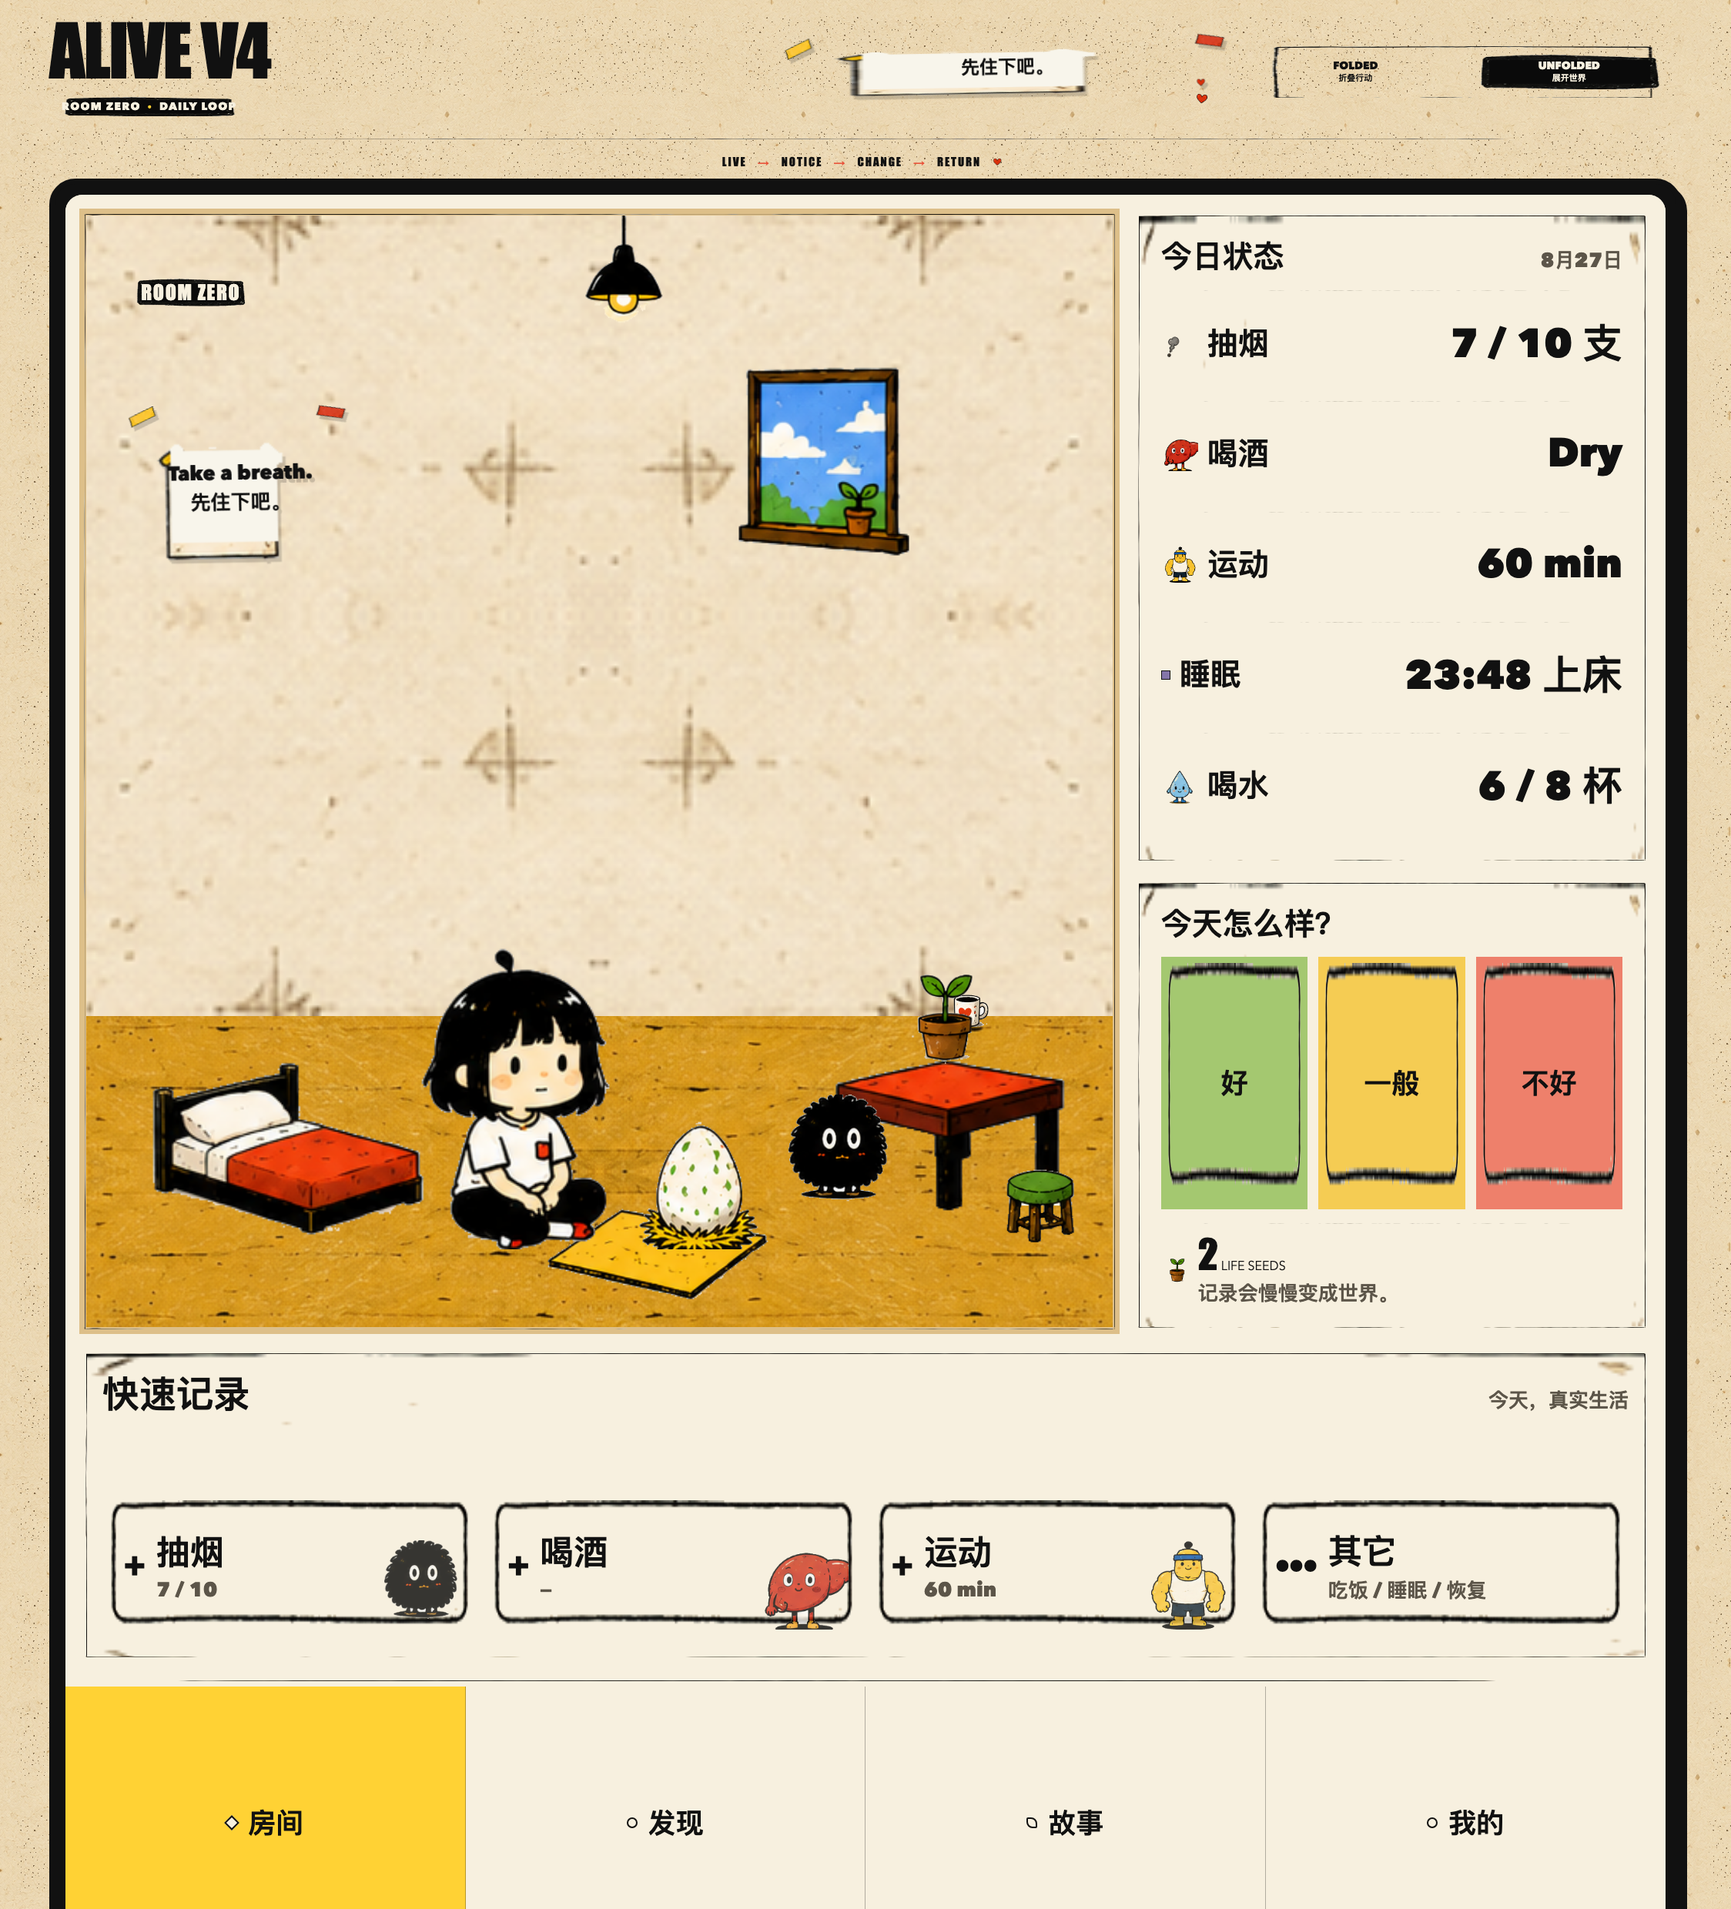
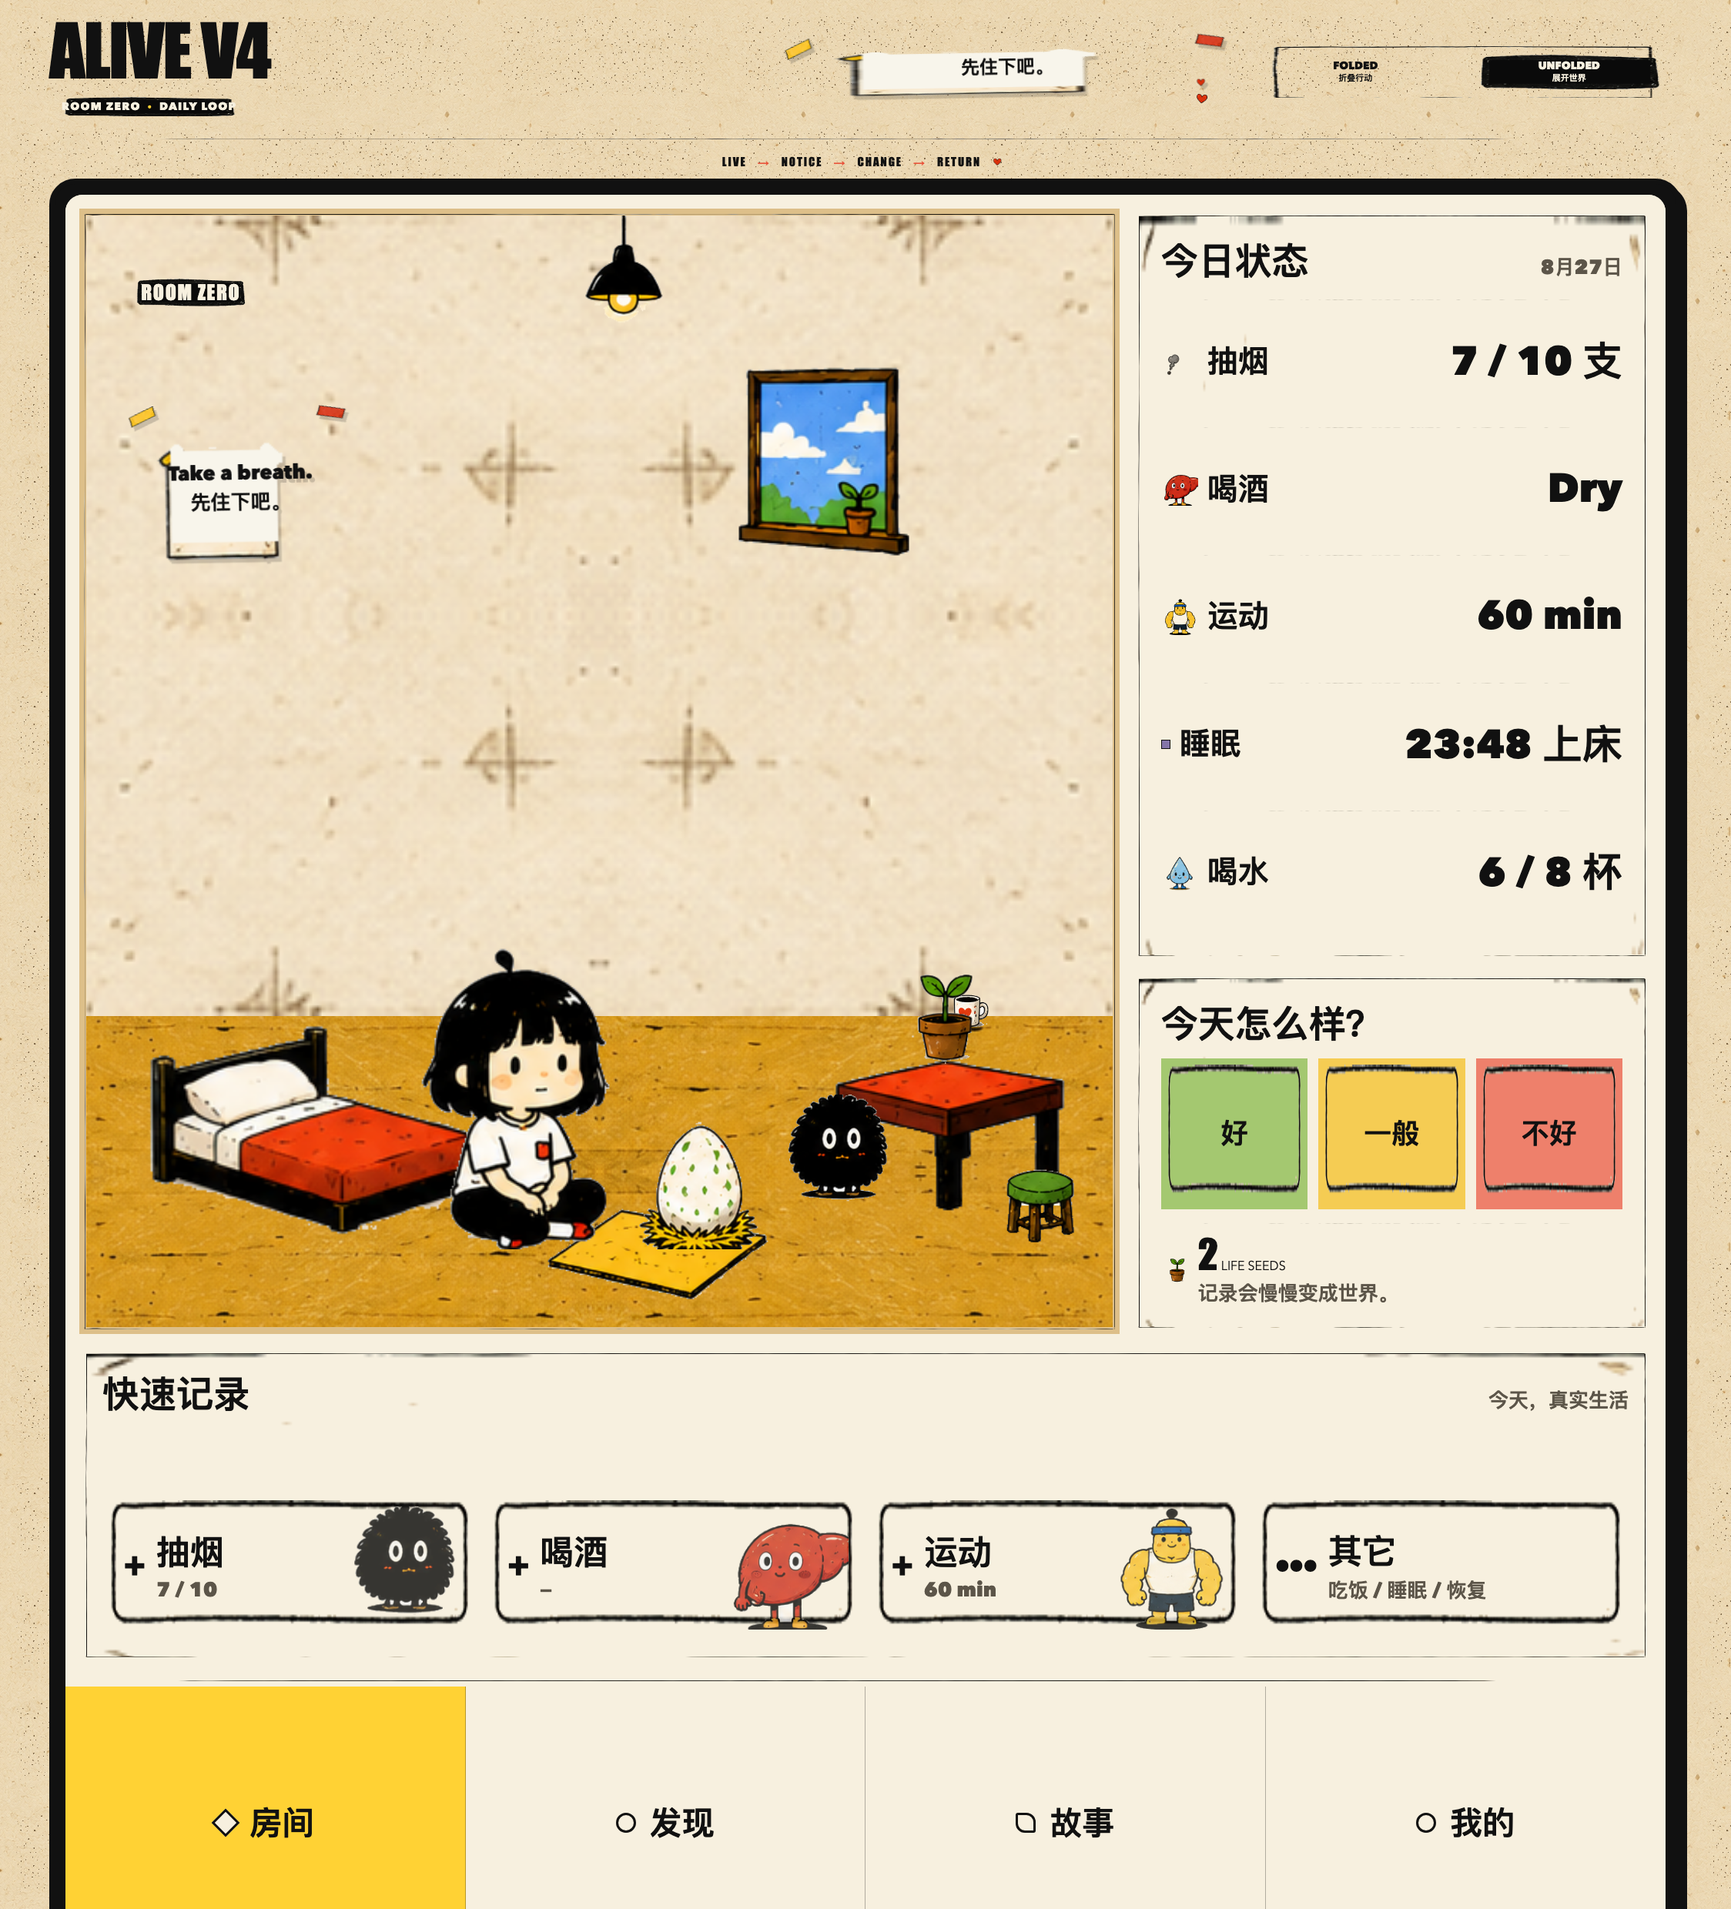
fix: polish folded and unfolded visual balance

diff --git a/src/styles/app.css b/src/styles/app.css
@@ -53,7 +53,7 @@ img { max-width: 100%; }
 .room-asset { position: absolute; z-index: 2; height: auto; object-fit: contain; }
 .lamp-asset { top: -1%; left: 45%; width: 13%; }
 .window-asset { top: 13%; right: 17%; width: 23%; }
-.bed-asset { bottom: 8%; left: 3%; width: 33%; }
+.bed-asset { bottom: 8%; left: 2%; width: 40%; }
 .rug-asset { bottom: 1%; left: 42%; width: 28%; }
 .table-asset { right: 2%; bottom: 8%; width: 28%; }
 .stool-asset { right: 2%; bottom: 6%; width: 11%; z-index: 4; }
@@ -92,7 +92,7 @@ img { max-width: 100%; }
 .other-record { width: 100%; margin-top: 8px; padding: 10px 12px; border: 8px solid transparent; border-image: url('../../public/assets/material/frame-button-secondary.png') 20 fill / 8px / 0 stretch; background-color: transparent; font-weight: 900; text-align: left; }
 .other-record span { margin-right: 7px; font-family: var(--font-display); font-size: 24px; } .other-record small { margin-left: 8px; color: var(--muted); font-weight: 700; }
 
-.status-column { grid-column: 2; grid-row: 1; display: grid; grid-template-rows: minmax(0, 1.18fr) minmax(0, .82fr); align-content: stretch; gap: 12px; min-width: 0; width: 100%; height: 100%; overflow: hidden; }
+.status-column { grid-column: 2; grid-row: 1; display: grid; grid-template-rows: minmax(0, 1.35fr) minmax(0, .65fr); align-content: stretch; gap: 12px; min-width: 0; width: 100%; height: 100%; overflow: hidden; }
 .status-card, .mood-card, .seed-card { min-height: 0; height: 100%; padding: 24px 28px; border: 10px solid transparent; border-image: url('../../public/assets/material/frame-panel.png') 24 fill / 10px / 0 stretch; background-color: var(--paper); }
 .status-card { display: flex; flex-direction: column; }
 .status-row { display: flex; justify-content: space-between; gap: 9px; padding: 21px 0 18px; background-image: url('../../public/assets/material/divider-handdrawn.png'); background-position: center top; background-size: 100% 8px; background-repeat: no-repeat; font-size: clamp(16px, 1vw, 25px); }
@@ -103,7 +103,8 @@ img { max-width: 100%; }
 .status-mark { width: 12px; height: 12px; display: inline-block; border: 1.5px solid var(--ink); background: var(--ink); }
 .status-mark.red { background: var(--red); } .status-mark.orange { background: var(--orange); } .status-mark.yellow { background: var(--yellow); } .status-mark.purple { background: var(--purple); } .status-mark.blue { background: var(--blue); }
 .mood-card { display: flex; flex-direction: column; }
-.mood-card h2 { margin-bottom: 14px; font-size: var(--type-card-title); }
+.status-card h2 { font-size: clamp(40px, 2.4vw, 48px); }
+.mood-card h2 { margin-bottom: 10px; font-size: clamp(40px, 2.4vw, 48px); }
 .moods { display: grid; grid-template-columns: repeat(3, 1fr); gap: 9px; }
 .mood-card .moods { flex: 1; align-items: stretch; gap: 14px; }
 .mood { min-height: var(--action-mood); border: 8px solid transparent; border-image: url('../../public/assets/material/frame-button-secondary.png') 20 fill / 8px / 0 stretch; background-color: transparent; font-size: var(--type-button); font-weight: 900; }
@@ -117,9 +118,9 @@ img { max-width: 100%; }
 .bottom-nav { display: grid; grid-template-columns: repeat(4, 1fr); border-top: 0; background-color: var(--paper); background-image: url('../../public/assets/material/divider-handdrawn.png'); background-position: center top; background-size: 100% 12px; background-repeat: no-repeat; padding-top: 12px; }
 .bottom-nav { height: 100%; }
 [data-screen-mode="folded"] .bottom-nav { display: none; }
-.nav-item { display: flex; justify-content: center; align-items: center; gap: 14px; min-height: 120px; border: 0; border-right: 1.5px solid rgba(17,17,17,.3); background: transparent; font-size: clamp(30px, 2.3vw, 36px); font-weight: 950; }
+.nav-item { display: flex; justify-content: center; align-items: center; gap: 18px; min-height: 120px; border: 0; border-right: 1.5px solid rgba(17,17,17,.3); background: transparent; font-size: clamp(34px, 2.5vw, 42px); font-weight: 950; }
 .nav-item:last-child { border-right: 0; } .nav-item.is-active { background-color: var(--yellow); }
-.nav-icon { width: 14px; height: 14px; display: inline-block; border: 2px solid var(--ink); background: var(--paper); } .nav-icon.house { transform: rotate(45deg); } .nav-icon.discover { border-radius: 50%; } .nav-icon.story { border-radius: 2px 8px 2px 8px; } .nav-icon.me { border-radius: 50%; }
+.nav-icon { width: 26px; height: 26px; display: inline-block; border: 3px solid var(--ink); background: var(--paper); } .nav-icon.house { transform: rotate(45deg); } .nav-icon.discover { border-radius: 50%; } .nav-icon.story { border-radius: 3px 12px 3px 12px; } .nav-icon.me { border-radius: 50%; }
 .footer-caption { display: flex; justify-content: space-between; gap: 20px; align-items: baseline; padding-top: 24px; font-family: var(--font-display); } .footer-caption span { font-size: 25px; } .footer-caption small { letter-spacing: .07em; }
 
 [data-mode="folded"] .unfolded-display { display: none; }
@@ -144,7 +145,7 @@ img { max-width: 100%; }
 [data-mode="folded"] .folded-scene .smoke-asset { bottom: 14%; right: 5%; width: 19%; }
 [data-mode="folded"] .focus-panel { min-height: 0; height: 100%; margin-top: 0; }
 [data-mode="folded"] .folded-focus { padding: 30px 34px; }
-[data-mode="folded"] .folded-focus .focus-copy h2 { font-size: var(--type-section-title); }
+[data-mode="folded"] .folded-focus .focus-copy h2 { font-size: clamp(42px, 3.6vw, 52px); }
 [data-mode="folded"] .folded-focus .focus-copy p { font-size: var(--type-secondary); }
 [data-mode="folded"] .folded-focus .mini-kicker { font-size: var(--type-secondary); }
 [data-mode="folded"] .folded-focus .focus-meter { display: grid; grid-template-columns: auto auto; align-items: baseline; column-gap: 8px; row-gap: 3px; flex-basis: 220px; }
@@ -154,10 +155,10 @@ img { max-width: 100%; }
 [data-mode="folded"] .focus-copy p { font-size: var(--type-secondary); }
 [data-mode="folded"] .focus-meter { display: block; flex-basis: 200px; }
 .primary-action, .secondary-action { width: 100%; margin-top: 0; border: 0; font-weight: 950; }
-.primary-action { display: flex; justify-content: center; align-items: center; gap: 12px; height: 100%; min-height: var(--action-primary); padding: 16px 22px; color: var(--paper); background-color: var(--ink); border: 8px solid transparent; border-image: url('../../public/assets/material/frame-cta-black.png') 20 fill / 8px / 0 stretch; font-size: var(--type-button); align-self: stretch; }
-.primary-action img { width: 38px; height: 38px; object-fit: contain; }
+.primary-action { display: flex; justify-content: center; align-items: center; gap: 16px; height: 100%; min-height: var(--action-primary); padding: 16px 22px; color: var(--paper); background-color: var(--ink); border: 8px solid transparent; border-image: url('../../public/assets/material/frame-cta-black.png') 20 fill / 8px / 0 stretch; font-size: clamp(38px, 3.2vw, 46px); align-self: stretch; }
+.primary-action img { width: 46px; height: 46px; object-fit: contain; }
 .primary-action:hover { color: var(--ink); background-color: var(--yellow); }
-.secondary-action { height: 100%; min-height: var(--action-secondary); padding: 14px 18px; background-color: transparent; border: 8px solid transparent; border-image: url('../../public/assets/material/frame-button-secondary.png') 20 fill / 8px / 0 stretch; font-size: var(--type-button); align-self: stretch; } .secondary-action span { margin-left: 10px; color: var(--muted); font-size: var(--type-secondary); }
+.secondary-action { height: 100%; min-height: var(--action-secondary); padding: 14px 18px; background-color: transparent; border: 8px solid transparent; border-image: url('../../public/assets/material/frame-button-secondary.png') 20 fill / 8px / 0 stretch; font-size: clamp(34px, 2.8vw, 42px); align-self: stretch; } .secondary-action span { margin-left: 10px; color: var(--muted); font-size: clamp(26px, 2.1vw, 32px); }
 
 @media (max-width: 860px) {
   .brand-header { grid-template-columns: 1fr 1fr; gap: 18px; }
@@ -173,7 +174,7 @@ img { max-width: 100%; }
   .screen-bezel { border-radius: 14px; } .screen-label { padding: 9px 12px; font-size: 11px; }
   .folded-display { padding: 7px; } [data-mode="folded"] .folded-scene .room-scene { width: 100%; max-height: none; }
   .focus-panel { padding: 22px; min-height: 220px; } .focus-copy h2 { font-size: var(--type-section-title); }
-  .bottom-nav .nav-item { min-height: 120px; font-size: var(--type-nav); gap: 10px; } .nav-icon { width: 16px; height: 16px; }
+  .bottom-nav .nav-item { min-height: 120px; font-size: clamp(28px, 5vw, 34px); gap: 14px; } .nav-icon { width: 22px; height: 22px; border-width: 3px; }
   .footer-caption { display: block; text-align: center; } .footer-caption span { display: block; margin-bottom: 7px; font-size: 22px; }
   .loop-strip { gap: 7px; font-size: 11px; }
 }

diff --git a/src/styles/tokens.css b/src/styles/tokens.css
@@ -22,13 +22,13 @@
   --screen-unfolded-content-fr: 84fr;
   --screen-unfolded-world-fr: 78fr;
   --screen-unfolded-quick-fr: 22fr;
-  --screen-folded-room: 40%;
-  --screen-folded-focus: 22%;
-  --screen-folded-actions: 23%;
-  --screen-folded-safe: 15%;
-  --screen-folded-room-fr: 40fr;
-  --screen-folded-focus-fr: 22fr;
-  --screen-folded-primary-fr: 14fr;
+  --screen-folded-room: 49%;
+  --screen-folded-focus: 20%;
+  --screen-folded-actions: 21%;
+  --screen-folded-safe: 10%;
+  --screen-folded-room-fr: 49fr;
+  --screen-folded-focus-fr: 20fr;
+  --screen-folded-primary-fr: 12fr;
   --screen-folded-secondary-fr: 9fr;
 
   /* One resident scale system. ZhanZhan is the 1.00 reference. */
@@ -43,11 +43,11 @@
   --room-zhan-width: 24%;
   --room-egg-width: 17%;
   --room-smoke-width: 12%;
-  --record-resident-height: 118px;
+  --record-resident-height: 162px;
 
   /* Touch controls at the 2248px unfolded QA size. */
   --action-quick: 190px;
-  --action-mood: 126px;
+  --action-mood: 110px;
   --action-primary: 132px;
   --action-secondary: 102px;
 

diff --git a/index.html b/index.html
@@ -5,11 +5,11 @@
     <meta name="viewport" content="width=device-width, initial-scale=1.0, viewport-fit=cover" />
     <meta name="theme-color" content="#f4ead5" />
     <title>ALIVE V4 · Room Zero</title>
-    <link rel="stylesheet" href="./src/styles/tokens.css?v=20260830-scale-correction1" />
-    <link rel="stylesheet" href="./src/styles/app.css?v=20260830-scale-correction1" />
+    <link rel="stylesheet" href="./src/styles/tokens.css?v=20260830-polish1" />
+    <link rel="stylesheet" href="./src/styles/app.css?v=20260830-polish1" />
   </head>
   <body>
     <main id="app" aria-live="polite"></main>
-    <script type="module" src="./src/app.js?v=20260830-scale-correction1"></script>
+    <script type="module" src="./src/app.js?v=20260830-polish1"></script>
   </body>
 </html>

diff --git a/design-qa.md b/design-qa.md
@@ -14,15 +14,15 @@ Captured states (visual scale correction):
 Checks completed:
 
 - Handheld black bezel remains the device shell; UI panels and actions now use the supplied hand-drawn panel/button/CTA/label frames instead of straight black rectangles.
-- Mobile type scale is explicit: section titles 44–52px, card titles 34–40px, primary values 42–52px, body 28–32px, secondary text 22–26px, buttons 30–36px, and navigation 24–28px.
-- Mobile interaction heights are explicit: unfolded quick records use 190px action cards with 118px resident art, mood controls use 126px minimum height, folded actions use 132px / 102px controls, and navigation cells use 120px minimum.
+- Mobile type scale is explicit: section titles 44–52px, card titles 34–40px, primary values 42–52px, body 28–32px, secondary text 22–26px, primary Folded CTA 38–46px, secondary Folded action 34–42px, and Unfolded navigation 34–42px.
+- Mobile interaction heights are explicit: unfolded quick records use 190px action cards with 162px resident art, mood controls use 110px minimum height, folded actions use 132px / 102px controls, and navigation cells use 120px minimum.
 - Paper texture and grain overlay are applied to the page shell, while the supplied wall/floor textures remain inside the Room Zero scene.
 - Unfolded mode keeps the Room Zero world in the 2fr main column, status/mood in the 1fr secondary column, then places a full-width horizontal quick-record band below the upper world/status band, followed by full-width navigation. The 2248×2480 screen budget is 66% world, 18% quick record, and 16% navigation.
 - The unfolded quick-record band contains four equal actions: `+ 抽烟`, `+ 喝酒`, `+ 运动`, and `••• 其它`.
 - The dimension labels are documentation/QA metadata only; the product screen itself contains no extra `MAIN DISPLAY` bar.
 - Unfolded mode uses the corrected physical ratio (2248 wide × 2480 high) with large, vertically balanced record and mood controls instead of oversized empty cards. The four quick-record actions remain equal-width game actions, not narrow desktop fields.
 - Unfolded mode does not reuse the folded focus card; the room keeps its complete near-square composition without clipping the residents or world objects.
-- Folded mode keeps the action order: room → today's focus → primary action → other records; it intentionally has no unfolded HUD, full quick-record row, or four-item navigation. Its fixed rhythm is 40% room, 22% focus, 23% actions, and 15% lower safe area, without content-height gaps. The room keeps a quieter bed/window/lamp/plant/support-object composition and scales residents from the ZhanZhan reference size.
+- Folded mode keeps the action order: room → today's focus → primary action → other records; it intentionally has no unfolded HUD, full quick-record row, or four-item navigation. Its fixed rhythm is approximately 49% room, 20% focus, 21% actions, and 10% lower safe area, without content-height gaps. The room keeps a quieter bed/window/lamp/plant/support-object composition and scales residents from the ZhanZhan reference size.
 - Real Room Zero furniture, characters, world objects, UI paper/tape, frame assets, and textures are loaded from the copied asset library. Resident/object percentages are kept coherent across ZhanZhan, egg, and supporting residents.
 - Entry points and asset references are repository-relative so a GitHub Pages project URL can load the app on mobile.
 - Screen aspect-ratio constraints are explicit in CSS and covered by automated tests: unfolded width/height `2248 / 2480`, folded width/height `1140 / 2616`; folded internal rows keep the room short enough for the full daily loop.
